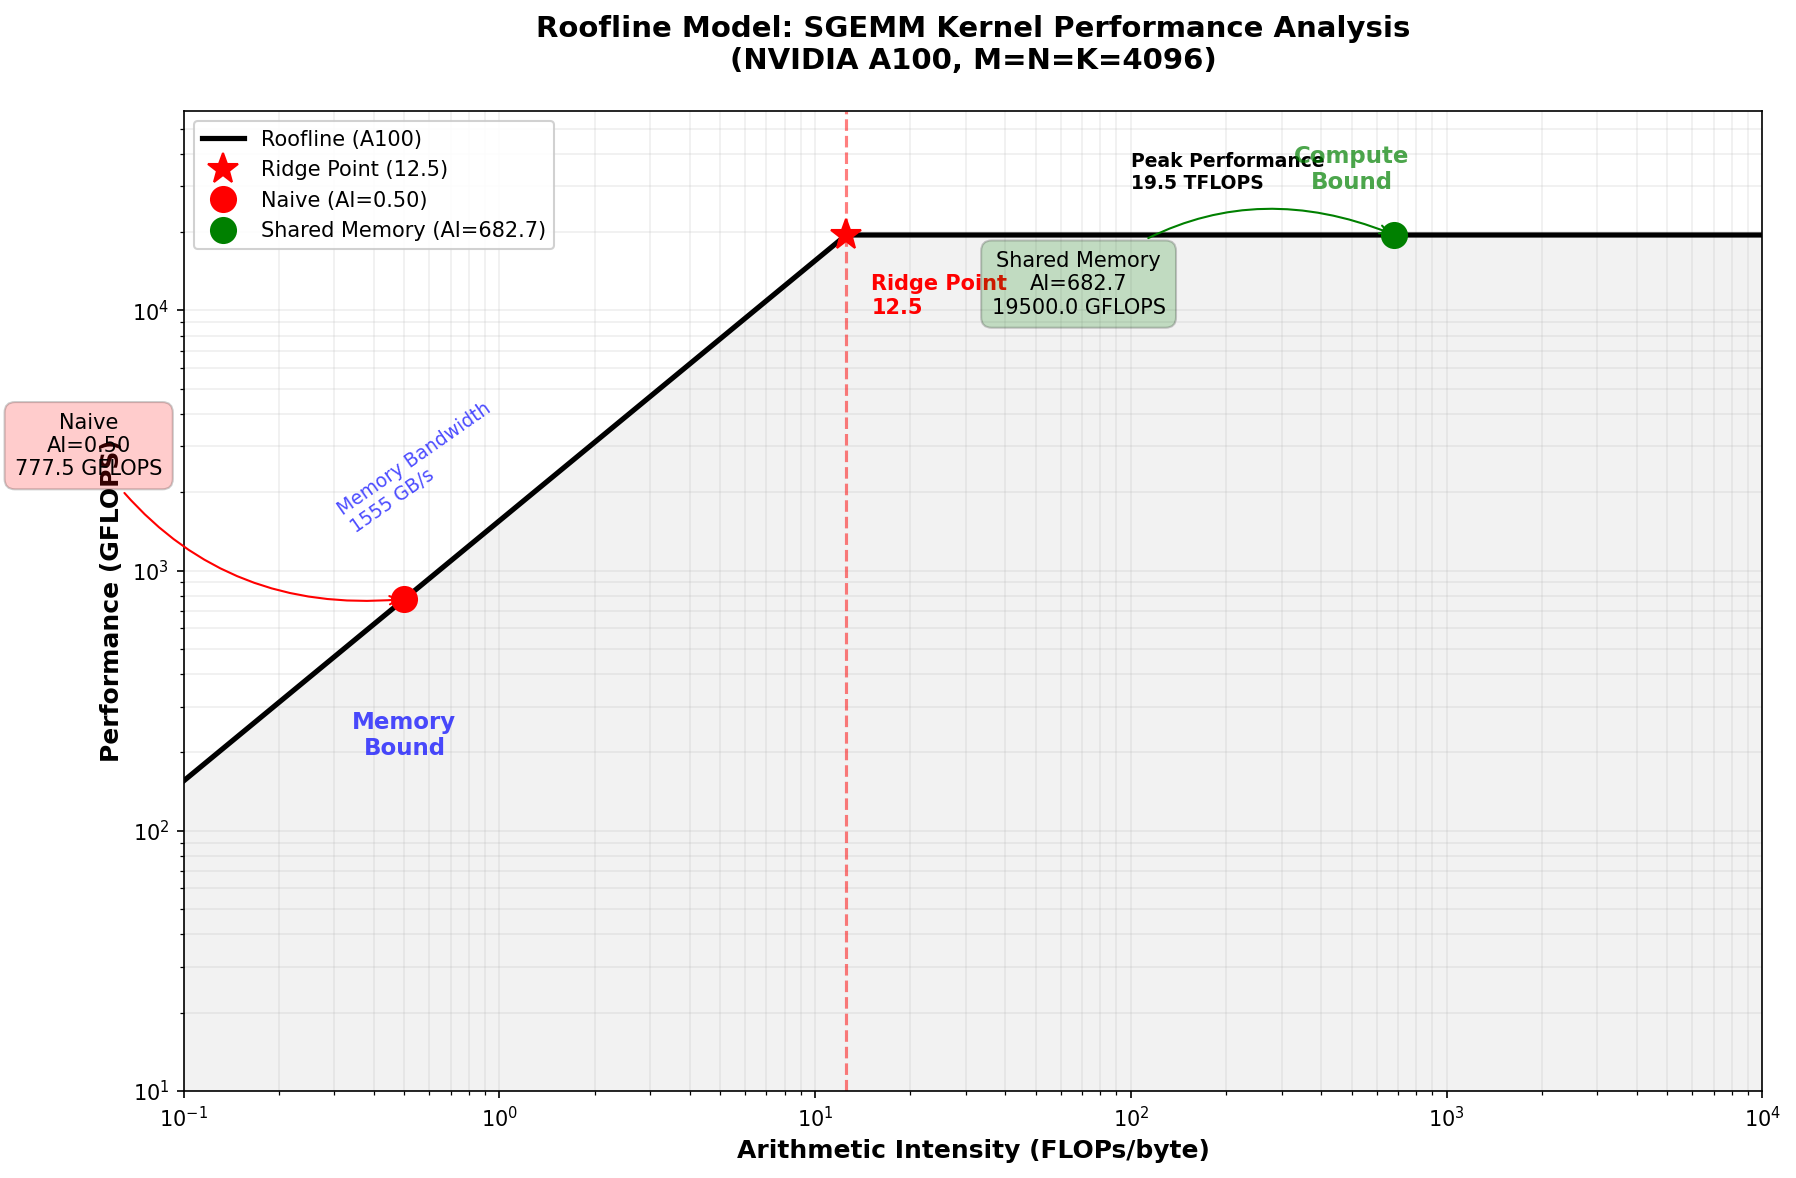
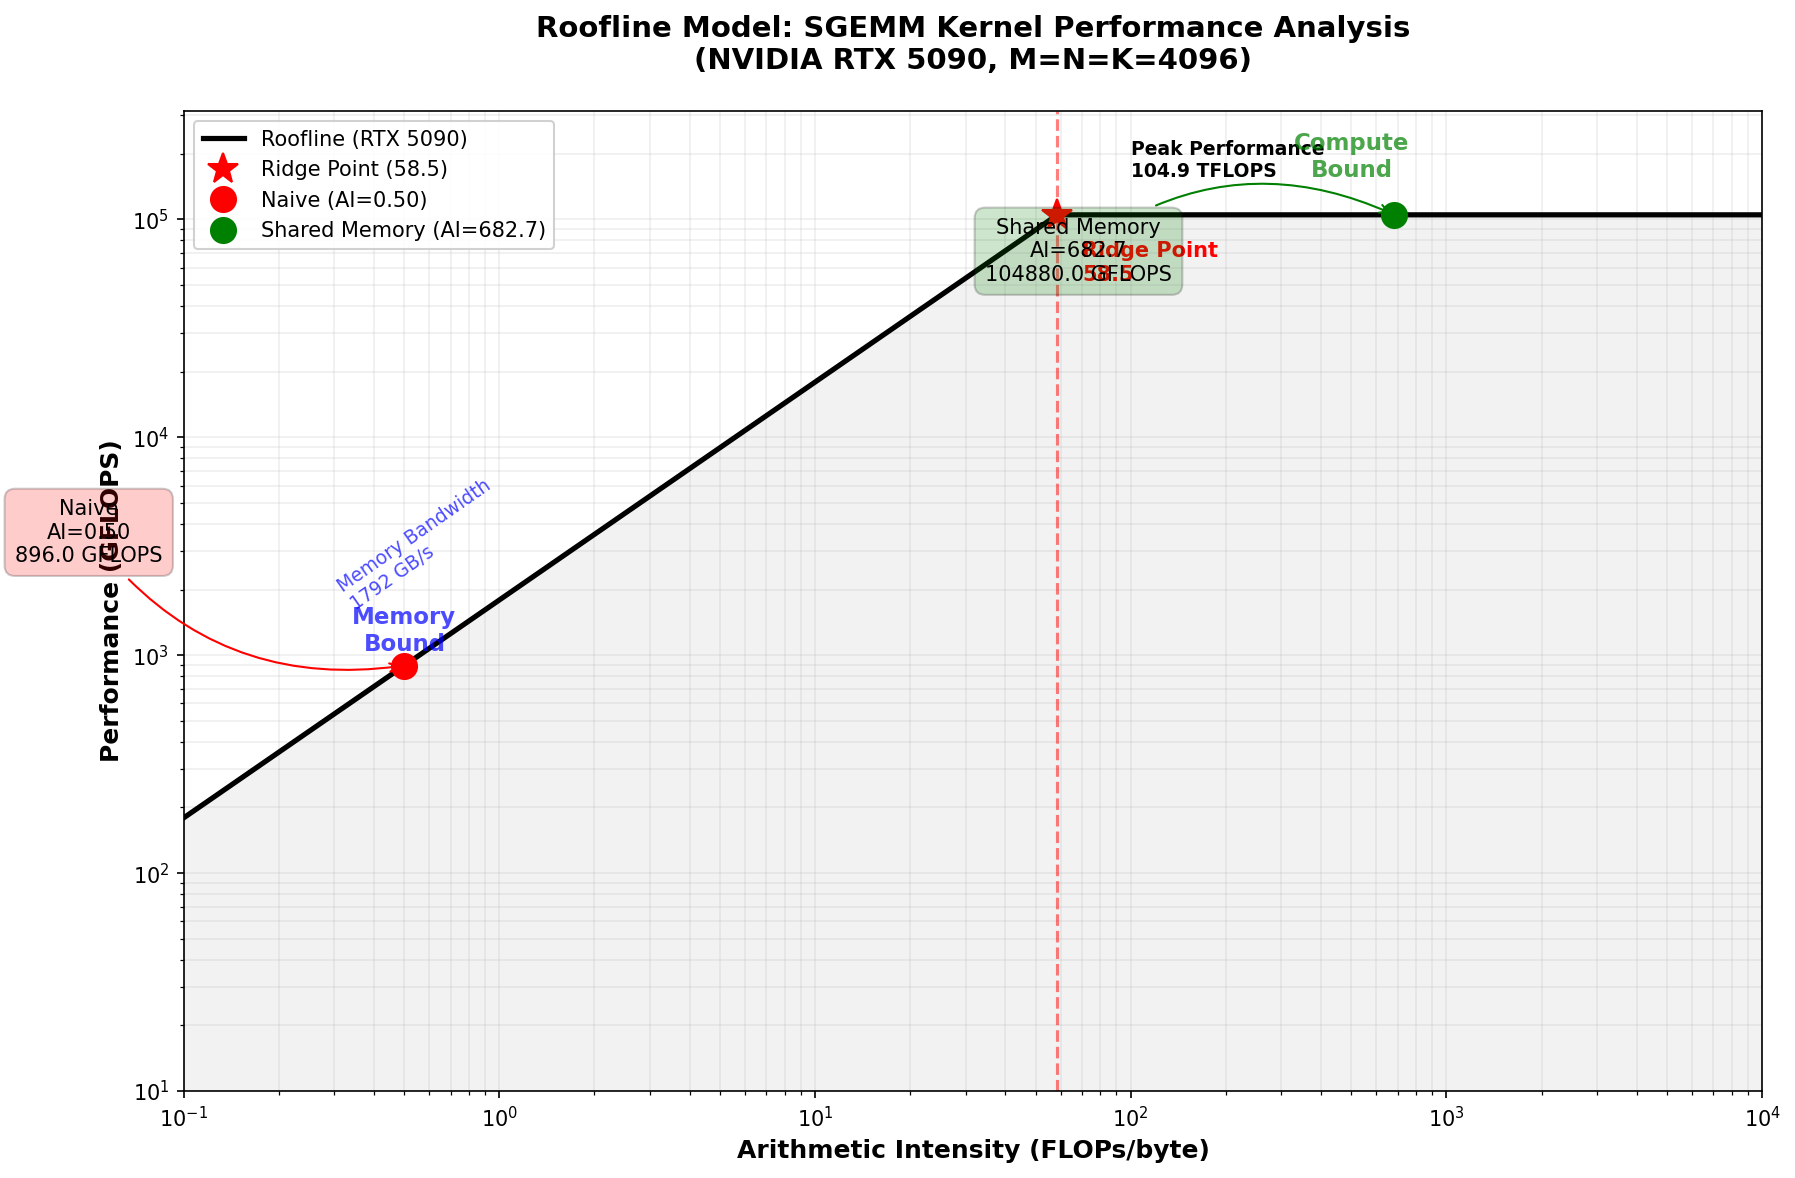
修正数据

diff --git a/GEMM/scripts/generate_roofline.py b/GEMM/scripts/generate_roofline.py
@@ -11,9 +11,9 @@ plt.rcParams['font.sans-serif'] = ['DejaVu Sans', 'SimHei', 'Arial Unicode MS']
 plt.rcParams['axes.unicode_minus'] = False
 
 def generate_roofline():
-    # GPU 硬件参数 (NVIDIA A100)
-    peak_flops = 19.5e3  # 19.5 TFLOPS = 19500 GFLOPS
-    memory_bw = 1555  # 1555 GB/s
+    # GPU 硬件参数 (NVIDIA RTX 5090)
+    peak_flops = 104.88e3  # 104.88 TFLOPS = 104880 GFLOPS
+    memory_bw = 1792  # 1792 GB/s (GDDR7)
     ridge_point = peak_flops / memory_bw  # Ridge Point
 
     # 矩阵参数
@@ -35,9 +35,9 @@ def generate_roofline():
     print(f"Roofline Analysis for SGEMM Kernels")
     print(f"Matrix Size: M={M}, N={N}, K={K}")
     print(f"=" * 60)
-    print(f"\nGPU: NVIDIA A100")
+    print(f"\nGPU: NVIDIA RTX 5090")
     print(f"  Peak FP32 Performance: {peak_flops/1e3:.1f} TFLOPS")
-    print(f"  Memory Bandwidth: {memory_bw} GB/s")
+    print(f"  Memory Bandwidth: {memory_bw} GB/s (GDDR7)")
     print(f"  Ridge Point: {ridge_point:.1f} FLOPs/byte")
     print(f"\nKernel Analysis:")
     print(f"  {'Kernel':<20} {'AI (FLOPs/byte)':<20} {'Theoretical GFLOPS':<20}")
@@ -65,7 +65,7 @@ def generate_roofline():
     roofline = np.minimum(memory_limited, compute_limited)
     
     # 绘制 Roofline
-    ax.loglog(ai_range, roofline, 'k-', linewidth=2.5, label='Roofline (A100)')
+    ax.loglog(ai_range, roofline, 'k-', linewidth=2.5, label='Roofline (RTX 5090)')
     
     # 填充区域
     ax.fill_between(ai_range, 0, roofline, alpha=0.1, color='gray')
@@ -111,7 +111,7 @@ def generate_roofline():
     # 设置坐标轴
     ax.set_xlabel('Arithmetic Intensity (FLOPs/byte)', fontsize=12, fontweight='bold')
     ax.set_ylabel('Performance (GFLOPS)', fontsize=12, fontweight='bold')
-    ax.set_title('Roofline Model: SGEMM Kernel Performance Analysis\n(NVIDIA A100, M=N=K=4096)', 
+    ax.set_title('Roofline Model: SGEMM Kernel Performance Analysis\n(NVIDIA RTX 5090, M=N=K=4096)', 
                  fontsize=14, fontweight='bold', pad=20)
     
     # 设置刻度范围

diff --git a/GEMM/docs/roofline_analysis.md b/GEMM/docs/roofline_analysis.md
@@ -191,19 +191,27 @@ $$AI_{shared} = \frac{2M^3}{3M^2 \times 4} = \frac{2M}{12} = \frac{M}{6} \text{ 
 
 | 参数 | 数值 | 说明 |
 |------|------|------|
-| 峰值算力 (FP32) | 19.5 TFLOPS | 理论最大计算性能 |
-| 显存带宽 | 1555 GB/s (HBM2e) | 理论最大内存带宽 |
-| **Ridge Point** | $\frac{19.5 \times 10^{12}}{1555 \times 10^9} \approx 12.5$ FLOPs/byte | 计算与内存受限的分界点 |
+| 峰值算力 (FP32) | 104.9 TFLOPS | 理论最大计算性能 |
+| 显存带宽 | 1,792 GB/s (GDDR7) | 理论最大内存带宽 |
+| **Ridge Point** | $\frac{104.9 \times 10^{12}}{1792 \times 10^9} \approx 58.5$ FLOPs/byte | 计算与内存受限的分界点 |
 
-**Ridge Point**：当 AI < 12.5 时，性能受内存带宽限制；当 AI > 12.5 时，性能受计算能力限制。
+**Ridge Point**：当 AI < 58.5 时，性能受内存带宽限制；当 AI > 58.5 时，性能受计算能力限制。
 
-### 3.2 典型消费级 GPU 参数（以 RTX 4090 为例）
+### 3.2 对比：NVIDIA RTX 4090 参数
 
 | 参数 | 数值 | 说明 |
 |------|------|------|
 | 峰值算力 (FP32) | 82.6 TFLOPS | 理论最大计算性能 |
 | 显存带宽 | 1008 GB/s (GDDR6X) | 理论最大内存带宽 |
 | **Ridge Point** | $\frac{82.6 \times 10^{12}}{1008 \times 10^9} \approx 81.9$ FLOPs/byte | 计算与内存受限的分界点 |
+
+### 3.3 RTX 5090 相比 RTX 4090 的提升
+
+| 参数 | RTX 4090 | RTX 5090 | 提升倍数 |
+|------|----------|----------|---------|
+| 峰值算力 | 82.6 TFLOPS | 104.9 TFLOPS | 1.27x |
+| 显存带宽 | 1008 GB/s | 1792 GB/s | 1.78x |
+| Ridge Point | 81.9 | 58.5 | 更低（更容易达到计算受限）|
 
 ### 3.3  Roofline 模型公式
 
@@ -232,28 +240,28 @@ Roofline 模型直观展示了 kernel 性能与硬件极限的关系：
 ```
 Performance (GFLOPS)
     |
-    |        Peak FLOPS (A100: 19,500)
+    |        Peak FLOPS (RTX 5090: 104,900)
     |        ________________________________
     |       /
-    |      /  <-- Ridge Point (AI ≈ 12.5)
+    |      /  <-- Ridge Point (AI ≈ 58.5)
     |     /
     |    /
     |   / Memory Bandwidth Line
-    |  / (Slope = 1555 GB/s)
+    |  / (Slope = 1792 GB/s)
     | /
     |/________________________________________
      |                                        \\ 
-     |  ○ Naive (AI=0.5, ~778 GFLOPS理论)      \\  ○ Shared Memory (AI=682, 充分利用算力)
+     |  ○ Naive (AI=0.5, ~896 GFLOPS理论)      \\  ○ Shared Memory (AI=683, 充分利用算力)
      |                                          \\__________________________________
      |                                                                           AI (FLOPs/byte)
      0.1         1          10        100        1000       10000
 ```
 
 **关键观察**：
-- **Naive Kernel**：AI ≈ 0.5，位于内存带宽限制区，理论性能仅 ~778 GFLOPS（受带宽限制）
-- **Shared Memory Kernel**：AI ≈ 683，已超过 Ridge Point，可充分利用峰值算力 ~19,500 GFLOPS
+- **Naive Kernel**：AI ≈ 0.5 << 58.5，位于内存带宽限制区，理论性能仅 ~896 GFLOPS（严重受带宽限制）
+- **Shared Memory Kernel**：AI ≈ 683 >> 58.5，已超过 Ridge Point，可充分利用峰值算力 ~104,880 GFLOPS
 
-**性能差距**：约 25 倍（理论上）
+**性能差距**：约 **117 倍**（理论上）
 
 ---
 
@@ -265,7 +273,8 @@ Performance (GFLOPS)
 |------|-------|---------------|------|
 | **全局内存访问次数** | $O(M \times K \times N)$ | $O(M \times K + K \times N)$ | 减少 $N$ 或 $M$ 倍 |
 | **Arithmetic Intensity** | ~0.5 | ~683 | 1365 倍 |
-| **内存带宽限制** | 严重受限 | 不受限 | 突破带宽瓶颈 |
+| **内存带宽限制** | 严重受限 (AI << 58.5) | 不受限 (AI >> 58.5) | 突破带宽瓶颈 |
+| **理论性能** | ~896 GFLOPS | ~104,880 GFLOPS | **117 倍** |
 | **数据局部性** | 无 | 通过共享内存实现 | 缓存友好 |
 | **线程协作** | 无 | Block 内线程协作加载 | 减少重复访问 |
 
@@ -279,9 +288,10 @@ Performance (GFLOPS)
    - 通过分块 (Tiling) 技术，使每个从全局内存加载的数据元素被多次计算复用
    - AI 从 <1 提升到数百，远超 Ridge Point
 
-3. **利用共享内存特性**：
-   - 共享内存延迟低（~20-30 cycles）vs 全局内存（~400-800 cycles）
-   - 共享内存带宽高（~10 TB/s per SM）vs 全局内存（~1.5 TB/s）
+3. **利用共享内存特性**（RTX 5090 / Blackwell 架构）：
+   - 共享内存延迟低（~20-30 cycles）vs 全局内存（~300-500 cycles，GDDR7）
+   - 共享内存带宽高（~10+ TB/s per SM）vs 全局内存（1.79 TB/s）
+   - GDDR7 提供更高带宽，但 AI 过低的 kernel 仍无法充分利用
 
 ### 5.3 进一步优化空间
 
@@ -297,8 +307,8 @@ Performance (GFLOPS)
 
 1. Williams, S., Waterman, A., & Patterson, D. (2009). Roofline: an insightful visual performance model for multicore architectures. Communications of the ACM, 52(4), 65-76.
 2. NVIDIA CUDA Best Practices Guide - Memory Optimization
-3. NVIDIA A100 Tensor Core GPU Architecture Whitepaper
+3. NVIDIA GeForce RTX 5090 Specifications (2025)
 
 ---
 
-*分析生成时间：2026年3月17日*
+*分析更新时间：2026年3月17日（RTX 5090 版本）*
